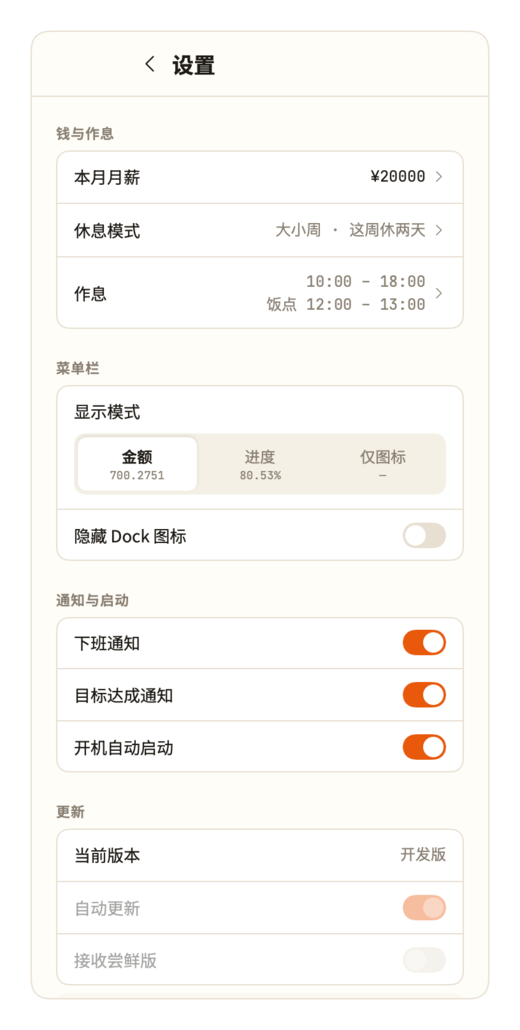
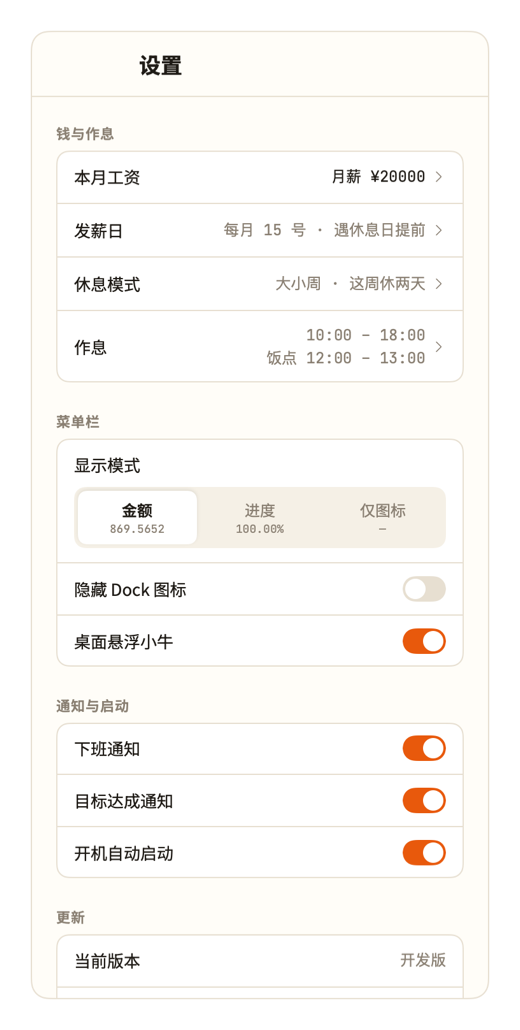
docs: README 补发薪日与桌面悬浮小牛的截图 (#25)
## 改动
- 功能列表加「发薪日倒计时」「桌面悬浮小牛」两条
- 运行效果加两组截图：发薪日 (概览倒计时、发薪当天、设置发薪日)、悬浮小牛 (距发薪几天、明天、当天、贴边收起)
- 设置页截图重新渲染，带上发薪日与悬浮小牛两项

截图都由 scripts/render-*-previews.sh 离屏渲染。

🤖 Generated with [Claude Code](https://claude.com/claude-code)

diff --git a/README.md b/README.md
@@ -42,6 +42,8 @@
 - **白干计时**：下班了还没走点「我还没走」，周末被叫去加班点「被迫营业」，按时薪算你今天倒贴了多少；可以一路计到第二天上班前。
 - **攒钱队列**：给自己定几个目标（换台 Switch、去趟大理……），工资自动往里攒，显示还需几天、预计哪天达成，攒够了放烟花。
 - **历史**：按月看每天赚了多少，点进某一天可以补记扣钱、请假、白干，或者改当月的月薪。
+- **发薪日倒计时**：设好每月几号发工资，碰上休息日可以选提前、顺延或不变；概览页脚和菜单栏里显示还有几天发薪，当天变成「今天发薪」。
+- **桌面悬浮小牛**：桌面角落站着一头小牛，举着气泡告诉你离发薪还有几天，越临近越激动，发薪当天撒花庆祝；拖到屏幕边上会收起来只探个头，全屏时自动躲开，不想要可以在设置里关掉。
 - **桌面小组件**：小号、中号、大号三种尺寸，今日已赚、倒计时、距离周末和攒钱进度放在桌面上。
 - **通知**：下班时告诉你今天赚了多少，目标攒够了也会提醒。
 - **其他**：开机自动启动、隐藏 Dock 图标（只在菜单栏常驻）、清空数据重新开始。
@@ -78,6 +80,23 @@
   <img src="docs/assets/screenshots/form-leave.png" width="200" alt="请假" title="请假">
   <img src="docs/assets/screenshots/page-goals.png" width="200" alt="攒钱队列" title="攒钱队列">
   <img src="docs/assets/screenshots/page-settings.png" width="200" alt="设置" title="设置">
+</p>
+
+**发薪日**：距发薪倒计时、发薪当天、设置发薪日
+
+<p>
+  <img src="docs/assets/screenshots/panel-payday-countdown.png" width="200" alt="距发薪倒计时" title="距发薪倒计时">
+  <img src="docs/assets/screenshots/panel-payday-today.png" width="200" alt="今天发薪" title="今天发薪">
+  <img src="docs/assets/screenshots/form-payday.png" width="200" alt="设置发薪日" title="设置发薪日">
+</p>
+
+**桌面悬浮小牛**：距发薪几天、明天发薪、发薪当天、贴边收起
+
+<p>
+  <img src="docs/assets/screenshots/cow-countdown.png" width="200" alt="悬浮小牛 · 距发薪 8 天" title="悬浮小牛 · 距发薪 8 天">
+  <img src="docs/assets/screenshots/cow-tomorrow.png" width="200" alt="悬浮小牛 · 明天发薪" title="悬浮小牛 · 明天发薪">
+  <img src="docs/assets/screenshots/cow-payday.png" width="200" alt="悬浮小牛 · 发薪当天" title="悬浮小牛 · 发薪当天">
+  <img src="docs/assets/screenshots/cow-docked.png" width="200" alt="悬浮小牛 · 贴边收起" title="悬浮小牛 · 贴边收起">
 </p>
 
 **历史**：月日历与单日详情
